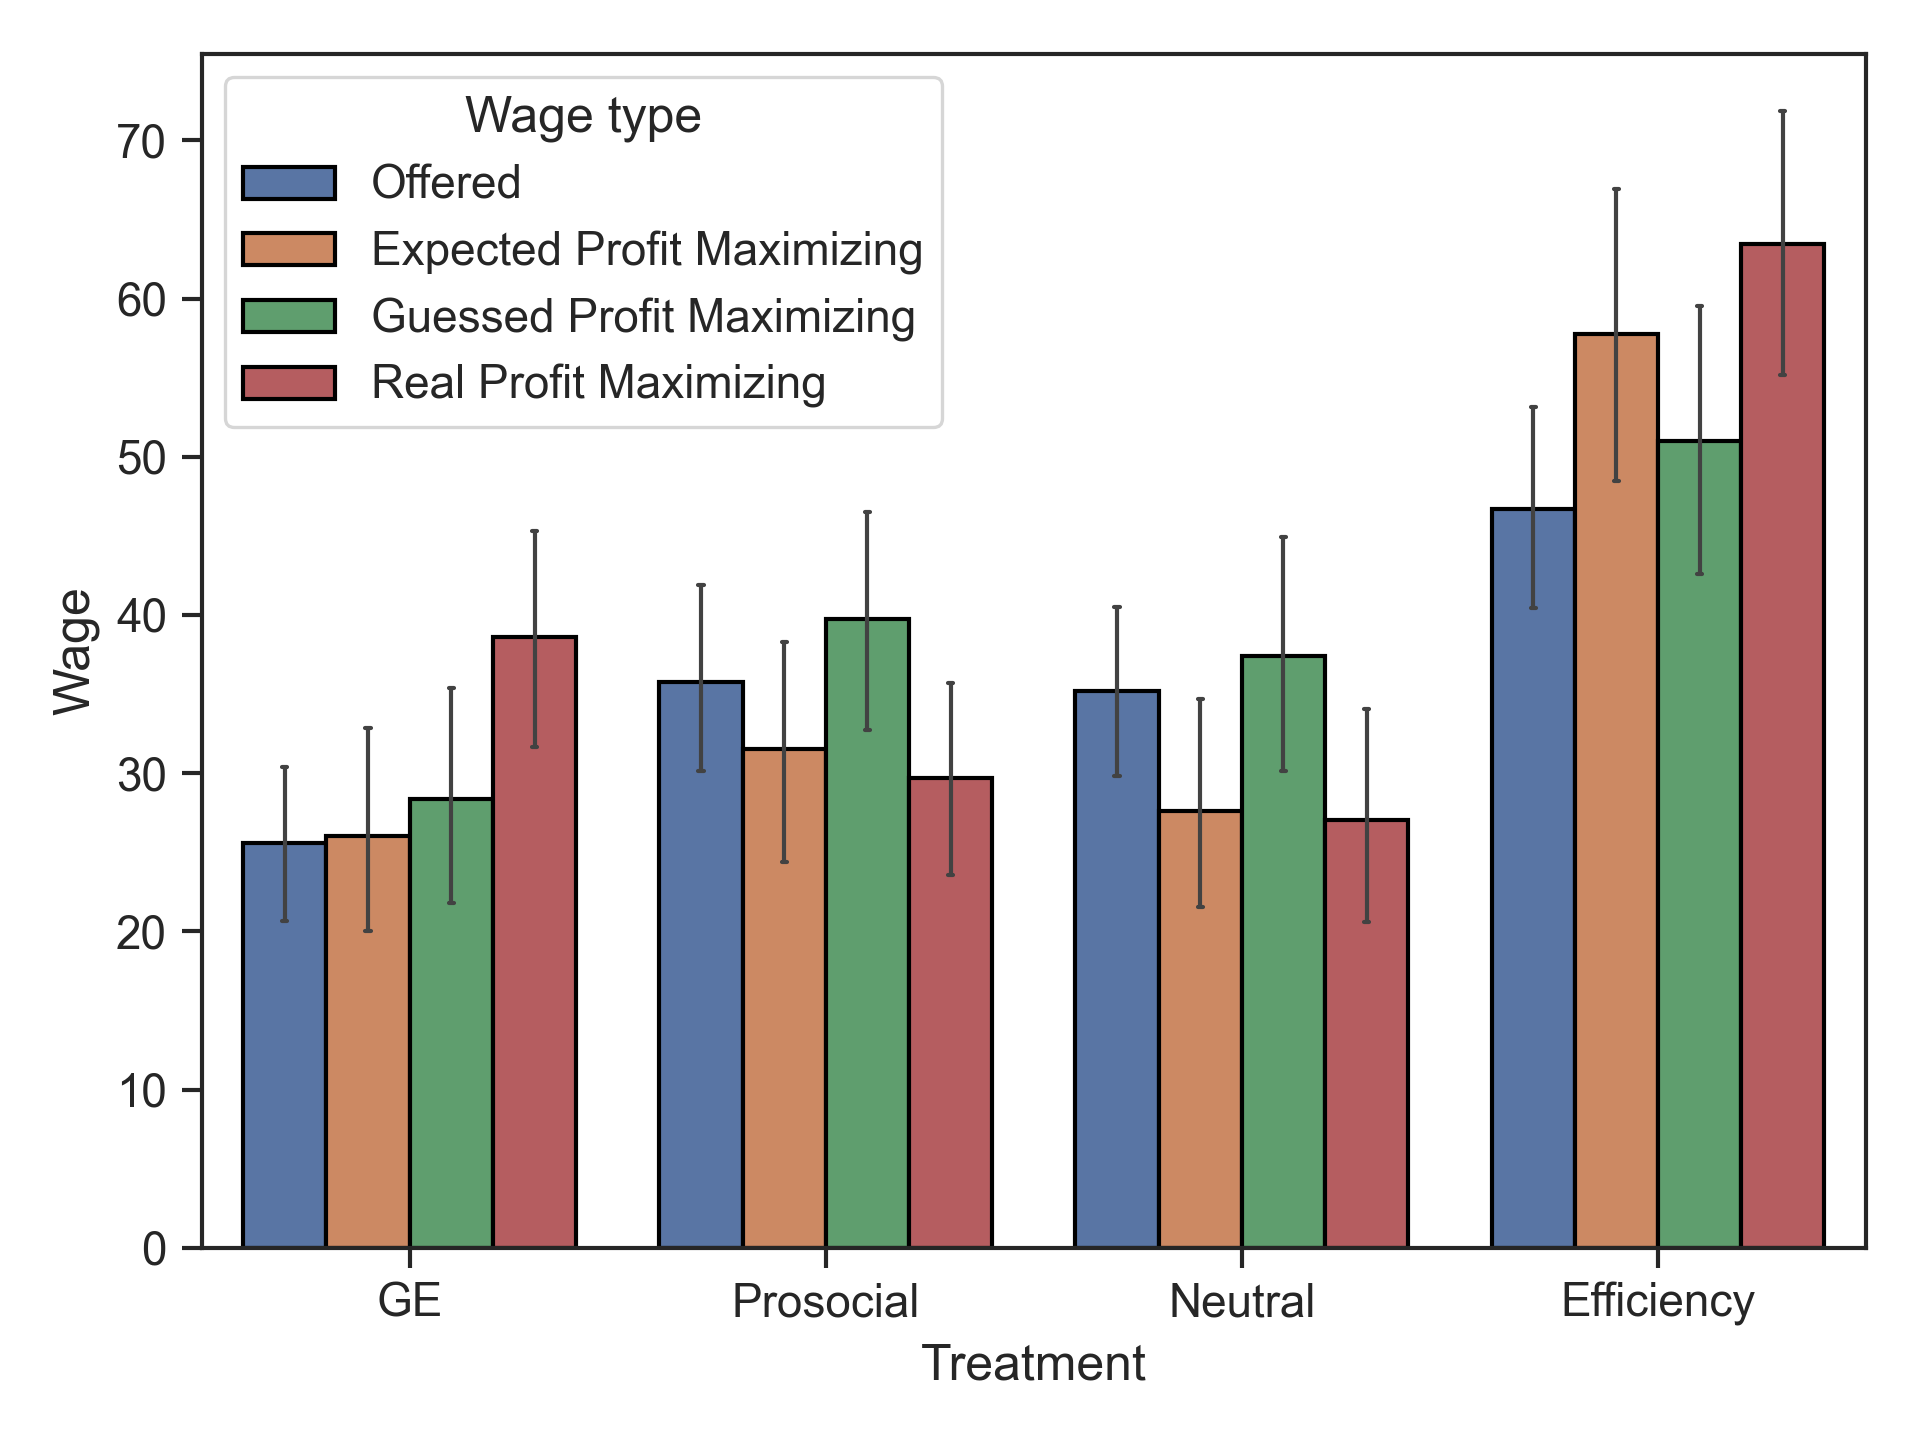
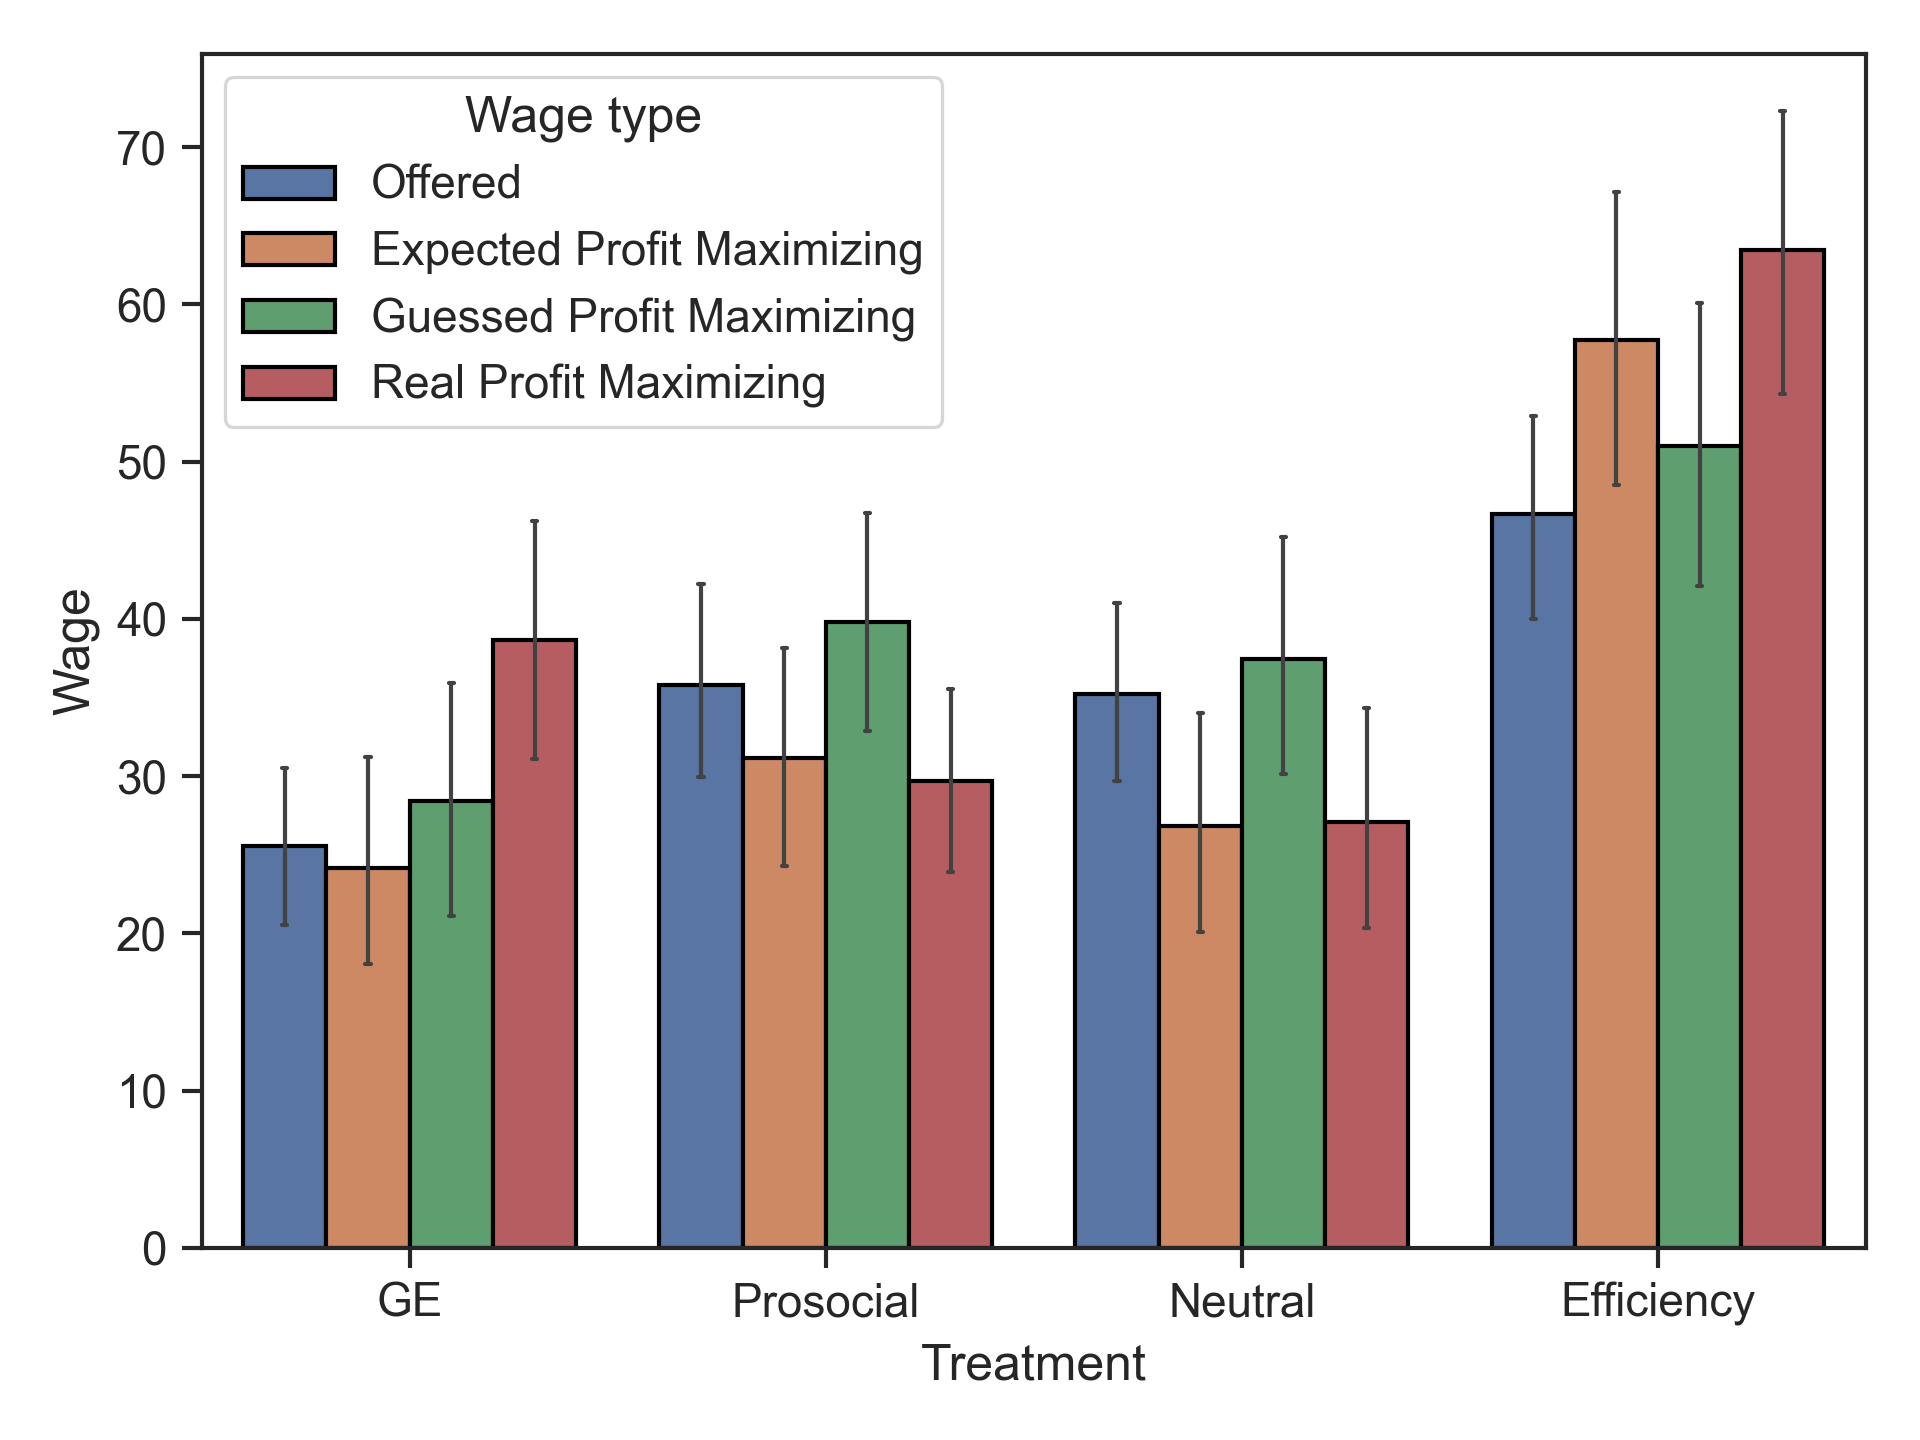
Correct expected profit-max wage figures

diff --git a/src/analysis/figures.py b/src/analysis/figures.py
@@ -39,11 +39,6 @@ def _profit_max_wage(efforts: list[float], treatment: str) -> int:
     return WAGES[int(np.nanargmax(profits))]
 
 
-def _belief_profit_max_wage(row: pd.Series) -> int:
-    efforts = [row[f"wage_{wage}"] for wage in WAGES]
-    return _profit_max_wage(efforts, row["Treatment"])
-
-
 def _agent_profit_max_wages(df: pd.DataFrame) -> pd.DataFrame:
     agents = df[df["Agent"] == 1].copy().reset_index(drop=True)
     agents["real_profitmax_wage"] = agents.apply(
@@ -56,34 +51,26 @@ def _agent_profit_max_wages(df: pd.DataFrame) -> pd.DataFrame:
     return agents[["Treatment", "real_profitmax_wage"]]
 
 
-def _principal_wage_summary(df: pd.DataFrame, principal_long: pd.DataFrame) -> pd.DataFrame:
+def _principal_wage_summary(df: pd.DataFrame) -> pd.DataFrame:
     principals = df[df["Agent"] == 0].copy().reset_index(drop=True)
-    principals["principal_n"] = np.arange(len(principals))
-
-    expected = principal_long.pivot_table(
-        index=["principal_n", "Treatment"], columns="Wage", values="ExpectedEffort"
-    ).reset_index()
-    expected.columns = [
-        f"wage_{int(col)}" if isinstance(col, (int, float)) else col for col in expected.columns
-    ]
-    expected["expected_profitmax_wage"] = expected.apply(_belief_profit_max_wage, axis=1)
-
-    merged = principals.merge(
-        expected[["principal_n", "expected_profitmax_wage"]],
-        on="principal_n",
-        how="left",
+    principals["expected_profitmax_wage"] = principals.apply(
+        lambda row: _profit_max_wage(
+            [row[f"PA_ExpectedEffort_Principal_atWage_{wage}"] for wage in WAGES],
+            row["Treatment"],
+        ),
+        axis=1,
     )
 
     agent_profitmax = _agent_profit_max_wages(df)
     pieces = []
     for treatment in PROFIT_MULTIPLIER:
-        principal_group = merged[merged["Treatment"] == treatment].copy().reset_index(drop=True)
+        principal_group = principals[principals["Treatment"] == treatment].copy().reset_index(drop=True)
         agent_group = agent_profitmax[agent_profitmax["Treatment"] == treatment].reset_index(drop=True)
         if len(principal_group) != len(agent_group):
             raise ValueError(
                 f"Cannot align principal and agent profit-maximizing wages for {treatment}: "
                 f"{len(principal_group)} principals and {len(agent_group)} agents."
-            )
+        )
         principal_group["real_profitmax_wage"] = agent_group["real_profitmax_wage"]
         pieces.append(principal_group)
     merged = pd.concat(pieces, ignore_index=True)
@@ -155,7 +142,7 @@ def build() -> dict[str, str]:
     sns.set_theme(style="ticks", context="paper", font_scale=1.25)
 
     df, agent_long, principal_long = _load()
-    wage_summary = _principal_wage_summary(df, principal_long)
+    wage_summary = _principal_wage_summary(df)
 
     main = agent_long[agent_long["Treatment"].isin(["P", "S"])].copy()
     main["Treatment"] = main["treatment_label"]